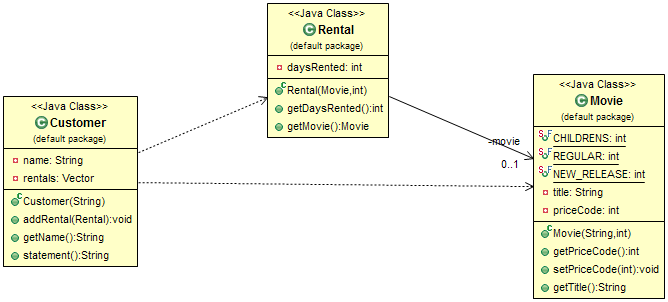
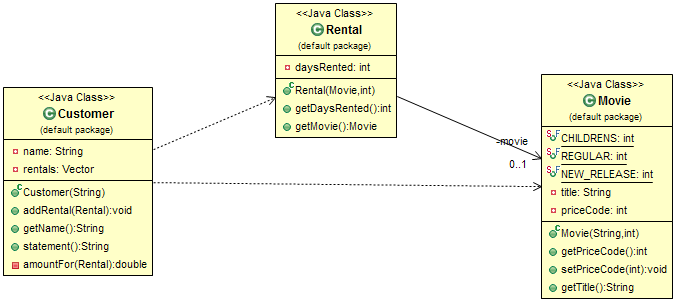
Change: Used the Extract Method(http://refactoring.com/catalog/extractMethod.html) on statement() of Customer Class; Changed Variable names according to Fowler; Updated Metrics and Class Diagram

diff --git a/src/Customer.java b/src/Customer.java
@@ -24,22 +24,9 @@ class Customer {
         while (enum_rentals.hasMoreElements()) {
             double thisAmount = 0;
             Rental each = (Rental) enum_rentals.nextElement();
-            //determine amounts for each line
-            switch (each.getMovie().getPriceCode()) {
-                case Movie.REGULAR:
-                	thisAmount += 2;
-                	if (each.getDaysRented() > 2)
-                    	thisAmount += (each.getDaysRented() - 2) * 1.5;
-                	break;
-                case Movie.NEW_RELEASE:
-                	thisAmount += each.getDaysRented() * 3;
-                	break;
-                case Movie.CHILDRENS:
-                	thisAmount += 1.5;
-                	if (each.getDaysRented() > 3)
-                    	thisAmount += (each.getDaysRented() - 3) * 1.5;
-                	break;
-            }
+            
+            thisAmount = amountFor(each);
+            
             // add frequent renter points
             frequentRenterPoints ++;
             // add bonus for a two day new release rental
@@ -55,5 +42,25 @@ class Customer {
         return result;
     }
     
+    private double amountFor(Rental aRental) {
+    	double result = 0;
+    	//determine amounts for each line
+        switch (aRental.getMovie().getPriceCode()) {
+            case Movie.REGULAR:
+            	result += 2;
+            	if (aRental.getDaysRented() > 2)
+                	result += (aRental.getDaysRented() - 2) * 1.5;
+            	break;
+            case Movie.NEW_RELEASE:
+            	result += aRental.getDaysRented() * 3;
+            	break;
+            case Movie.CHILDRENS:
+            	result += 1.5;
+            	if (aRental.getDaysRented() > 3)
+                	result += (aRental.getDaysRented() - 3) * 1.5;
+            	break;
+        }
+        return result;
+	}
 }
     
